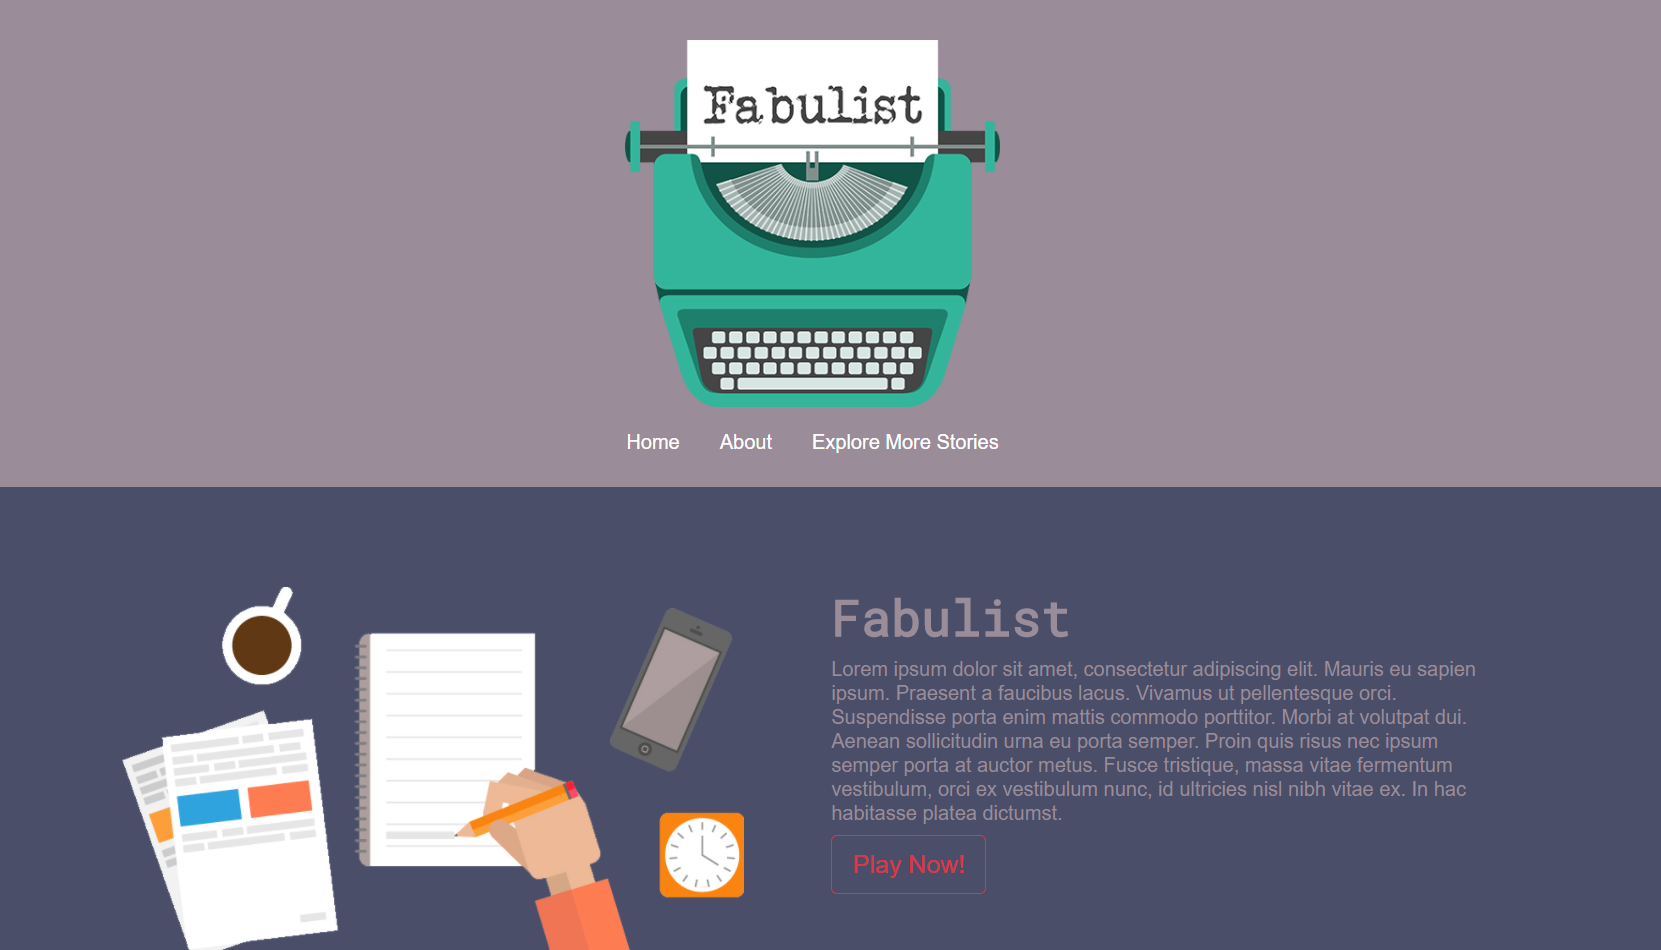
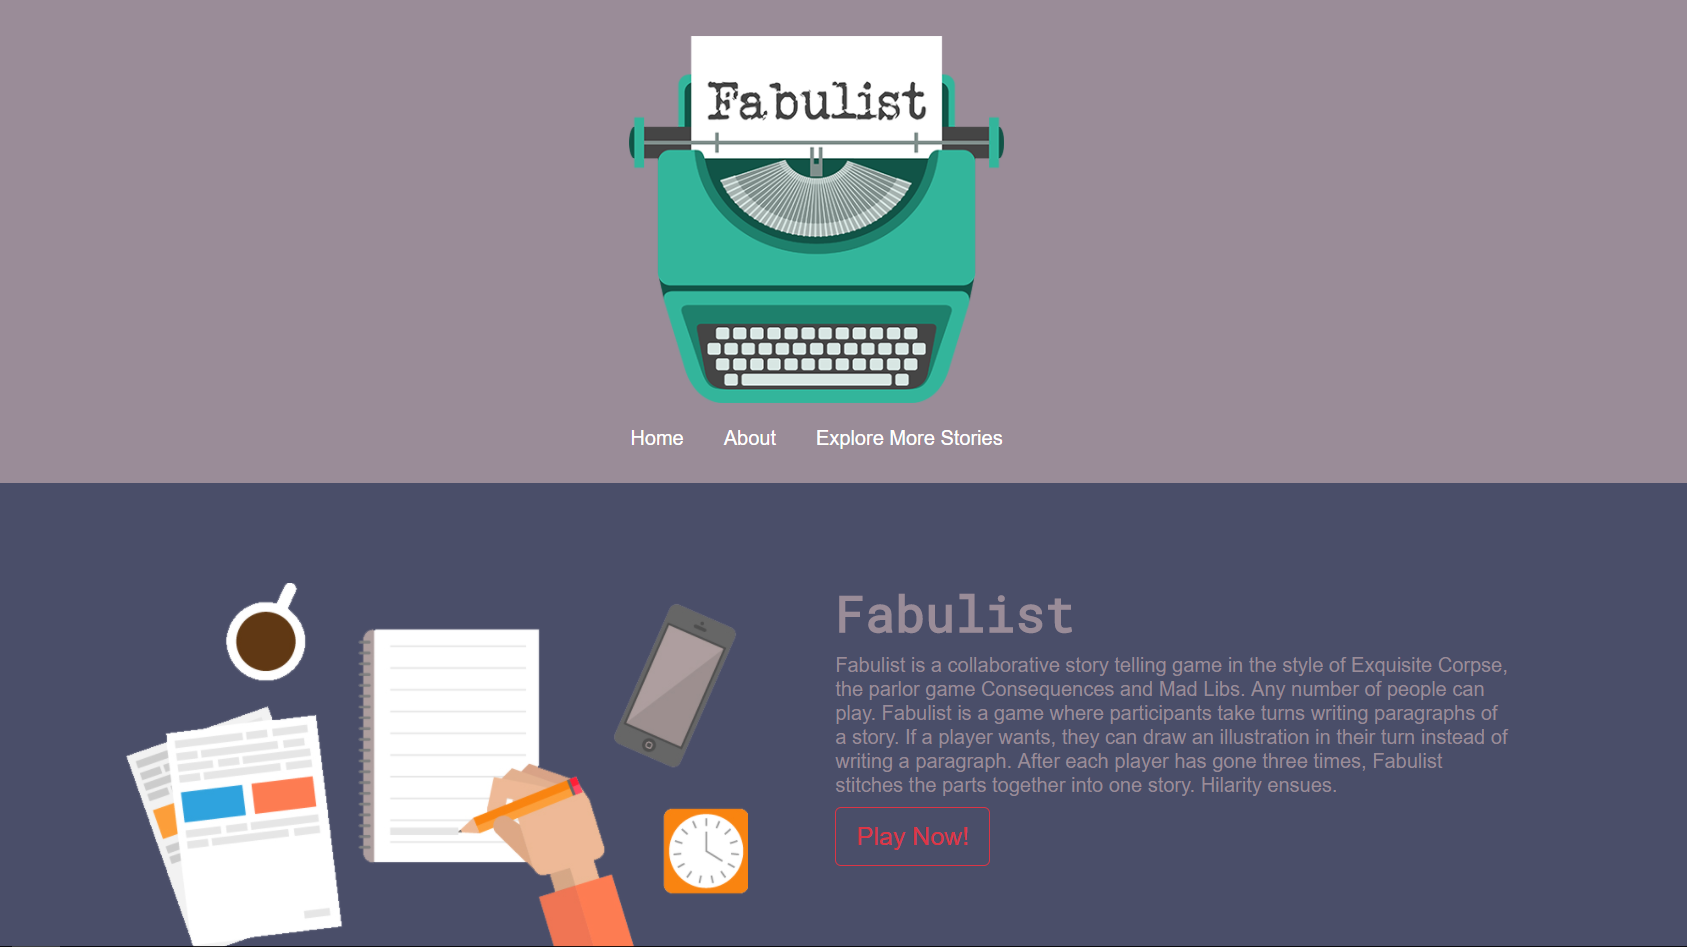
More narative changes

diff --git a/public/main.html b/public/main.html
@@ -51,10 +51,8 @@
       <div class="col-lg-6" id="rule-content">
         <h1>Fabulist</h1>
         <h6>
-          Lorem ipsum dolor sit amet, consectetur adipiscing elit. Mauris eu sapien ipsum.
-          Praesent a faucibus lacus. Vivamus ut pellentesque orci. Suspendisse porta enim mattis commodo porttitor.
-          Morbi at volutpat dui. Aenean sollicitudin urna eu porta semper. Proin quis risus nec ipsum semper porta at auctor metus. Fusce tristique, massa vitae fermentum vestibulum, orci ex vestibulum nunc, id ultricies nisl nibh vitae ex. In hac habitasse platea dictumst.
-        </h6>
+          Fabulist is a collaborative story telling game in the style of Exquisite Corpse, the parlor game Consequences and Mad Libs. Any number of people can play. Fabulist is a game where participants take turns writing paragraphs of a story. If a player wants, they can draw an illustration in their turn instead of writing a paragraph. After each player has gone three times, Fabulist stitches the parts together into one story. Hilarity ensues.
+        </h6><br>
         <button type="button" name="button" class="btn btn-outline-danger btn-lg" id="playBtn">Play Now!</button>
       </div>
     </div>

diff --git a/README.md b/README.md
@@ -2,7 +2,7 @@
 
 <img src="public/assets/images/welcome_to_fabulist.png" alt="Fabulist Welcome Screen">
 
-<span style="color: #4a4e69; font-size: 30px">Fabulist</span><span> is a collaborative story telling game in the style of [Exquisite Corpse](https://en.wikipedia.org/wiki/Exquisite_corpse), the parlor game [Consequences](https://en.wikipedia.org/wiki/Consequences_(game)) and [Mad Libs](https://en.wikipedia.org/wiki/Mad_Libs).  Any number of people can play. Fabulist is a game where participants take turns writing paragraphs of a story. If a player wants, they can draw an illustration in their turn instead of writing a paragraph. After each player has gone three times, the story is stitched together and displayed.</span>
+***Fabulist*** is a collaborative story telling game in the style of [Exquisite Corpse](https://en.wikipedia.org/wiki/Exquisite_corpse), the parlor game [Consequences](https://en.wikipedia.org/wiki/Consequences_(game)) and [Mad Libs](https://en.wikipedia.org/wiki/Mad_Libs).  Any number of people can play. Fabulist is a game where participants take turns writing paragraphs of a story. If a player wants, they can draw an illustration in their turn instead of writing a paragraph. After each player has gone three times, Fabulist stitches the parts together into one story.  Hilarity ensues.</span>
 
 ## Deployed
 
